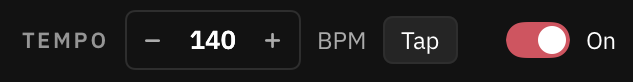
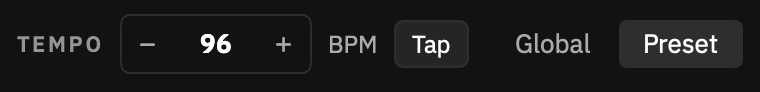
docs: manual pictures for the tempo row and the metronome's Pedal tab
Also wires the metronome to the store at launch as well as in the window: a test instance launched hidden has no
window, so it had no Pedal tab and no preset-tempo sync (found while taking these pictures off-screen).

diff --git a/App/Sources/NanoCortexEditorApp.swift b/App/Sources/NanoCortexEditorApp.swift
@@ -21,6 +21,9 @@ struct NanoCortexEditorApp: App {
         let store = PedalStore(), cloud = CloudController(), metro = Metronome()
         _store = State(initialValue: store); _cloud = State(initialValue: cloud); _metro = State(initialValue: metro)
         AppDelegate.store = store
+        // Wired here as well as in the window: a test instance launched hidden has no window, and without this it has
+        // no Pedal tab in the metronome and no preset-tempo sync (seen while taking the 1.2.4 manual screenshots).
+        store.attach(metro)
         #if DEBUG
         // The dev remote starts with the app, not with its window: a test instance launched hidden in the background
         // (`open -n -g -j`) gets no window until it is activated, and must not be activated on the owner's screen.

diff --git a/docs/MANUAL.md b/docs/MANUAL.md
@@ -292,7 +292,7 @@ Cortex's EXP/MIDI jack.
 
 ## 8. Tempo
 
-<img src="images/tempo.png" alt="The Tempo control: minus, 140, plus, BPM and Tap" width="316">
+<img src="images/tempo.png" alt="The Tempo control: minus, 96, plus, BPM, Tap and the Global | Preset switch" width="380">
 
 Each preset has a tempo (for its delays and modulation). Change it with **− / +**, by **dragging** the TEMPO label
 sideways, by clicking the number and **typing**, or with **Tap** (tap the beat; the preset gets the tempo when you
@@ -326,6 +326,8 @@ overlay or change preset. It doesn't report these settings back, so the tab show
 every tempo change sends them along (the pedal would otherwise fall back to its defaults). Nothing is sent until you
 change something. **Computer** is the metronome described below. Only one of the two clicks at a
 time: starting one stops the other.
+
+<img src="images/metronome-pedal.png" alt="The metronome's Pedal tab: the Pedal | Computer tabs, 96 BPM with minus and plus, Global | Preset, Metronome on, Volume −12 dB, Sound Blip, Subdivision 1/8, Time signature 4/4, Tap tempo and the note that the pedal doesn't report these settings" width="535">
 
 ### Simple
 
